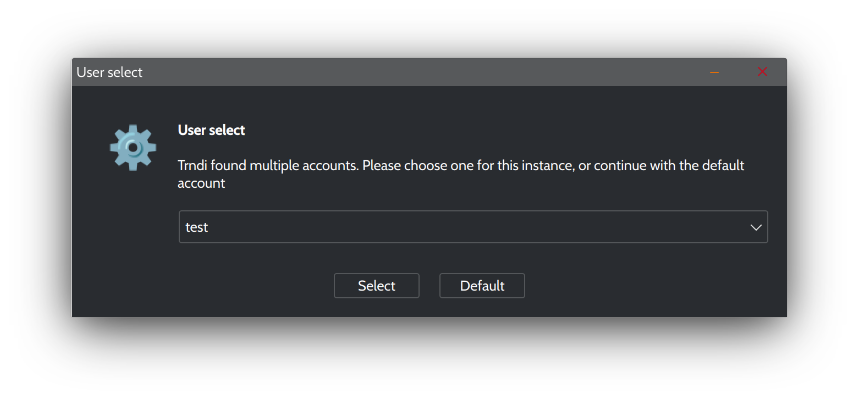
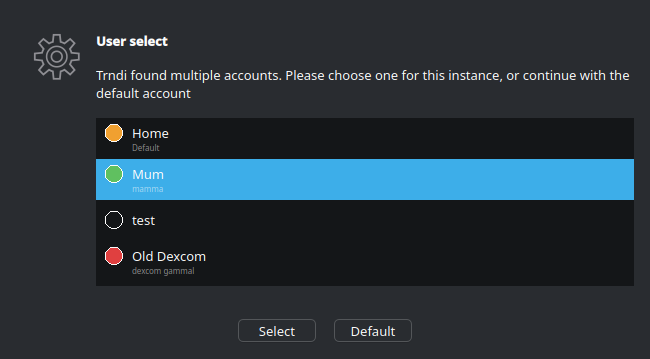
Modernize account picker

diff --git a/guides/Multiuser.md b/guides/Multiuser.md
@@ -15,10 +15,13 @@ When users exist, Trndi will ask which one you want to use on start-up:
 
 ![User select](/doc/img/user_select.png)
 
-The account you used last time is already selected when the dialog opens, so
-returning to the same account is a single click. Each account's language
-setting is applied once you have chosen — accounts can run Trndi in different
-languages.
+Every row shows the account's colour dot, its nickname and, underneath, the
+account name you typed when creating it. The default account is the first row.
+The account you used last time is already highlighted when the dialog opens, so
+returning to the same account is a single Enter or double-click; typing the
+first letters of a nickname jumps to it. Closing the dialog or pressing
+__Default__ starts the default account. Each account's language setting is
+applied once you have chosen — accounts can run Trndi in different languages.
 
 ## Customizing a user
 * In the user list, click the user's username
